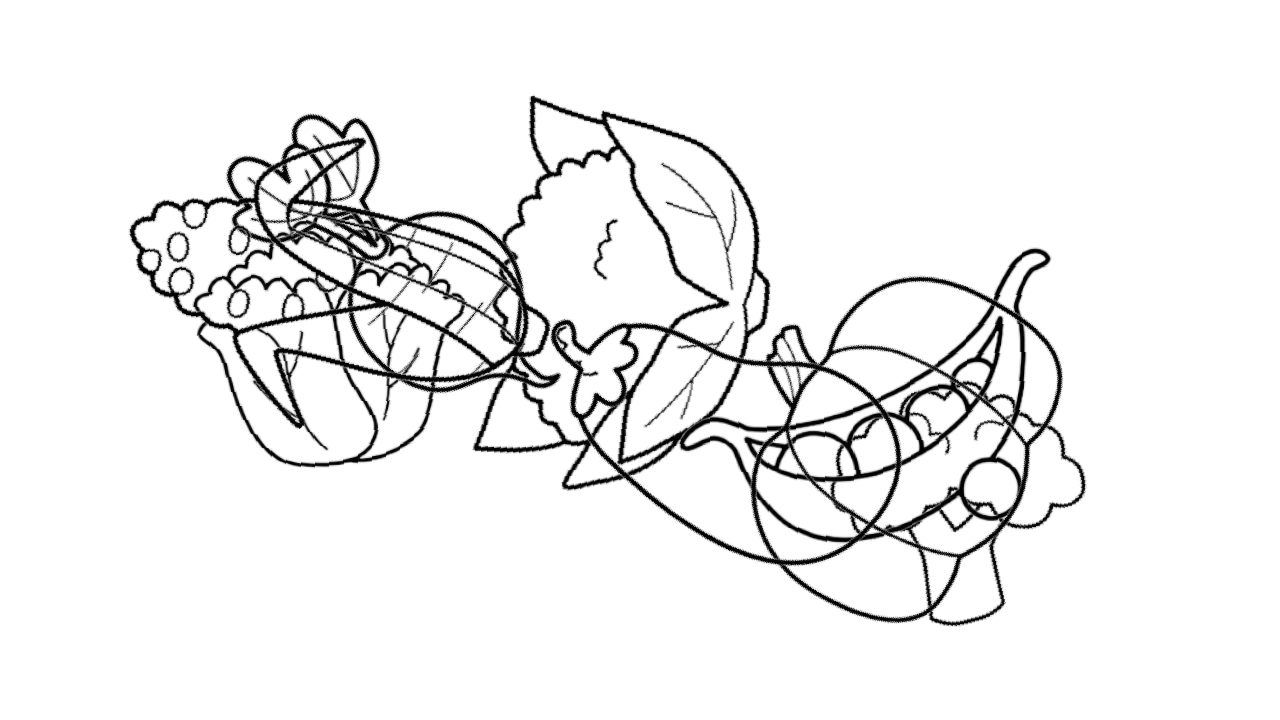
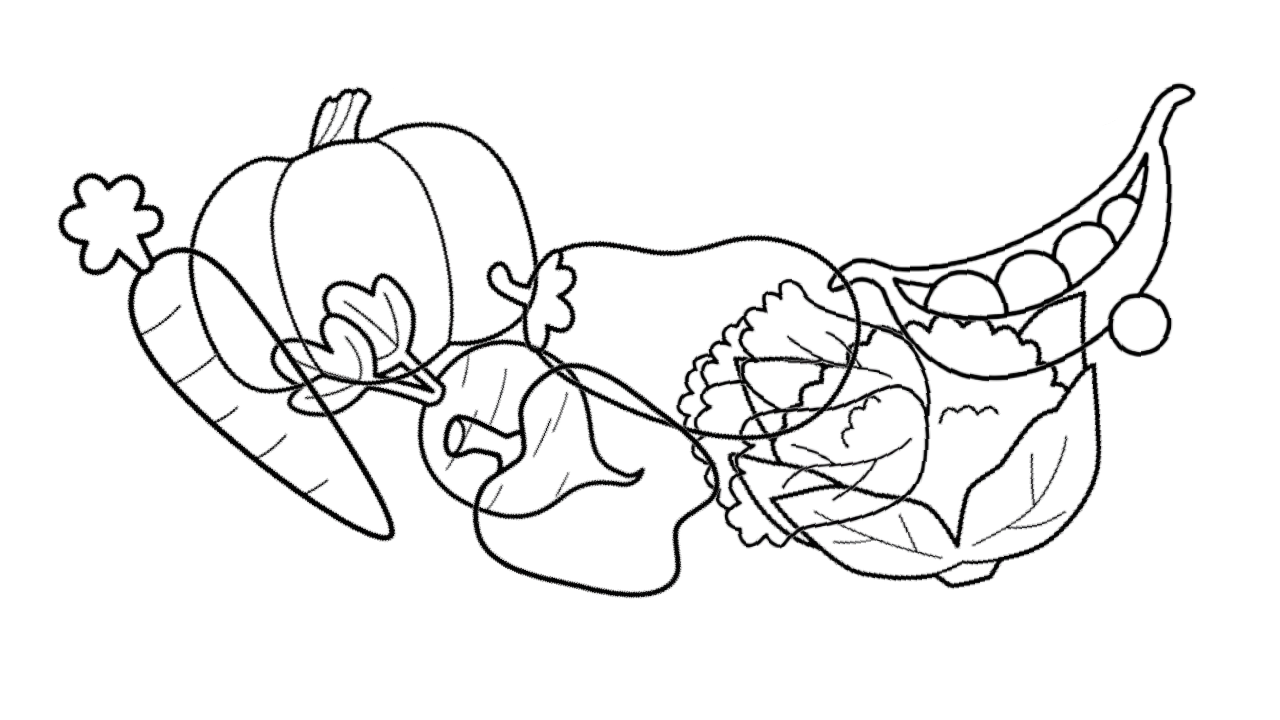
new overlay pictures

Changed region(s): [[0.0312, 0.0917, 0.9375, 0.8861]]

diff --git a/core/src/com/mygdx/game/screens/ScreenOverlayShapes.java b/core/src/com/mygdx/game/screens/ScreenOverlayShapes.java
@@ -113,6 +113,10 @@ public class ScreenOverlayShapes implements Screen {
         for (int i = 0; i < testSession.shapeList.size(); i++) {
             Shape shape = testSession.shapeList.get(i);
             listShapesImages.add(new ImageView(shape.getX(), shape.getY(), BLACK_AND_WHITE_SHAPES_DIR + shape.getName()));
+            shape.setX((int) (shape.getX() + imageMapView.x));
+            shape.setY((int) (shape.getY() + imageMapView.y));
+            // shape.setX((int) (imageMapView.x));
+            // shape.setY((int) (imageMapView.y));
         }
 
         Gdx.input.setInputProcessor(new MyInputProcessor());
@@ -200,7 +204,10 @@ public class ScreenOverlayShapes implements Screen {
             for (int i = 0; i < testSession.shapeList.size(); i++) {
                 if (ColorsCodes.getImageNameByColorCode(code).equals(
                         testSession.shapeList.get(i).getName().split("\\.")[0])) {
-                    RenderHelper.setDraggingView(listShapesImages.get(i), (int) myGdxGame.touch.x, (int) myGdxGame.touch.y);
+                    listShapesImages.get(i).x = testSession.shapeList.get(i).getX();
+                    listShapesImages.get(i).y = testSession.shapeList.get(i).getY();
+                    RenderHelper.setDraggingView(listShapesImages.get(i), (int) myGdxGame.touch.x, (int) (myGdxGame.touch.y));
+                    System.out.println(testSession.shapeList.get(i).getX() + " - " + testSession.shapeList.get(i).getY());
                     return;
                 }
             }

diff --git a/core/src/com/mygdx/game/utils/overlayShapes/ShapesDescriptor.java b/core/src/com/mygdx/game/utils/overlayShapes/ShapesDescriptor.java
@@ -5,14 +5,22 @@ import java.util.ArrayList;
 public class ShapesDescriptor {
 
     static String[] allDescriptions = {
-            "(808, 353);15;broccoli.png\n" +
-                    "(186, 199);4;cabbage.png\n" +
-                    "(463, 92);81;cauliflower.png\n" +
-                    "(672, 246);2;peas.png\n" +
-                    "(185, 70);53;beet.png\n" +
-                    "(94, 92);78;corn.png\n" +
-                    "(669, 211);59;pumpkin.png\n" +
-                    "(500, 226);57;eggplant.png\n"
+            "(707, 282);11;cauliflower.png\n" +
+                    "(816, 81);3;peas.png\n" +
+                    "(242, 242);68;beet.png\n" +
+                    "(151, 51);14;pumpkin.png\n" +
+                    "(662, 268);85;cabbage.png\n" +
+                    "(458, 157);73;eggplant.png\n" +
+                    "(399, 318);65;pepper.png\n" +
+                    "(-10, 153);68;carrot.png\n",
+            "(-5, 131);30;peas.png\n" +
+                    "(751, 170);44;corn.png\n" +
+                    "(520, 303);81;cauliflower.png\n" +
+                    "(667, 207);8;broccoli.png\n" +
+                    "(213, 109);60;carrot.png\n" +
+                    "(206, 268);41;cabbage.png\n" +
+                    "(680, 44);52;beet.png\n" +
+                    "(374, 127);81;eggplant.png\n"
     };
 
     private static int clearNumber(String inputStr) {

diff --git a/core/src/com/mygdx/game/utils/RenderHelper.java b/core/src/com/mygdx/game/utils/RenderHelper.java
@@ -6,6 +6,8 @@ import com.badlogic.gdx.utils.ScreenUtils;
 import com.mygdx.game.MyGdxGame;
 import com.mygdx.game.ui.View;
 
+import static com.mygdx.game.utils.ApplicationSettings.SCR_HEIGHT;
+
 
 public class RenderHelper extends InputAdapter {
 
@@ -28,8 +30,8 @@ public class RenderHelper extends InputAdapter {
         dragginView = view;
         // deltaX = (int) (startX - view.x);
         // deltaY = (int) (startY - view.y);
-        deltaX = 0;
-        deltaY = 0;
+        deltaX = (int) (view.width / 2);
+        deltaY = (int) (view.height / 2);
     }
 
     public static View getDragginView() {
@@ -46,12 +48,12 @@ public class RenderHelper extends InputAdapter {
         myGdxGame.batch.begin();
         myGdxGame.batch.setProjectionMatrix(myGdxGame.camera.combined);
 
-
         drawScenes.draw(justTouch);
 
         if (dragginView != null && isDragging) {
-            x = (int) (Gdx.input.getX() - deltaX - dragginView.width / 2);
-            y = (int) (Gdx.graphics.getHeight() - (Gdx.input.getY() + deltaY) - dragginView.height / 2);
+
+            x = (int) (Gdx.input.getX() - deltaX);
+            y = (int) (SCR_HEIGHT - (Gdx.input.getY() + deltaY));
             dragginView.x = x;
             dragginView.y = y;
             dragginView.draw(myGdxGame);

diff --git a/core/src/com/mygdx/game/utils/overlayShapes/ColorsCodes.java b/core/src/com/mygdx/game/utils/overlayShapes/ColorsCodes.java
@@ -4,7 +4,7 @@ public class ColorsCodes {
 
     public static int getCode(double red, double green, double blue) {
 
-        // we get range (0-1) from libjdx Texture
+        // we get range (0-1) from libgdx Texture
         // but it better to check in real rgb format
 
         green = (int) (green * 255);
@@ -31,9 +31,9 @@ public class ColorsCodes {
         // brown (beet)
         if (red == 136 && green == 0 && blue == 21) return 8;
         // red (pepper)
-        if (red == 100 && green == 0 && blue == 21) return 9;
+        if (red == 255 && green == 174 && blue == 201) return 9;
         //  swamp (carrot)
-        if (red == 50 && green == 50 && blue == 0) return 8;
+        if (red == 200 && green == 191 && blue == 231) return 10;
 
         return 0;
     }

diff --git a/core/src/com/mygdx/game/utils/ApplicationSettings.java b/core/src/com/mygdx/game/utils/ApplicationSettings.java
@@ -33,6 +33,6 @@ public class ApplicationSettings {
     public static String COLUMN_BLACK_AND_WHITE_SHAPES_DIR = "overlayShapes/columnsBlackWhiteShapes/";
 
     // TODO: remove it
-    public static int COUNT_OF_FILES = 1;
+    public static int COUNT_OF_FILES = 2;
 
 }

diff --git a/core/src/com/mygdx/game/utils/overlayShapes/Shape.java b/core/src/com/mygdx/game/utils/overlayShapes/Shape.java
@@ -22,8 +22,6 @@ public class Shape {
         this.y = y;
     }
 
-    private Image image;
-
     public Shape(int x, int y, int rotation, String name) {
         isFound = false;
         this.x = x;
